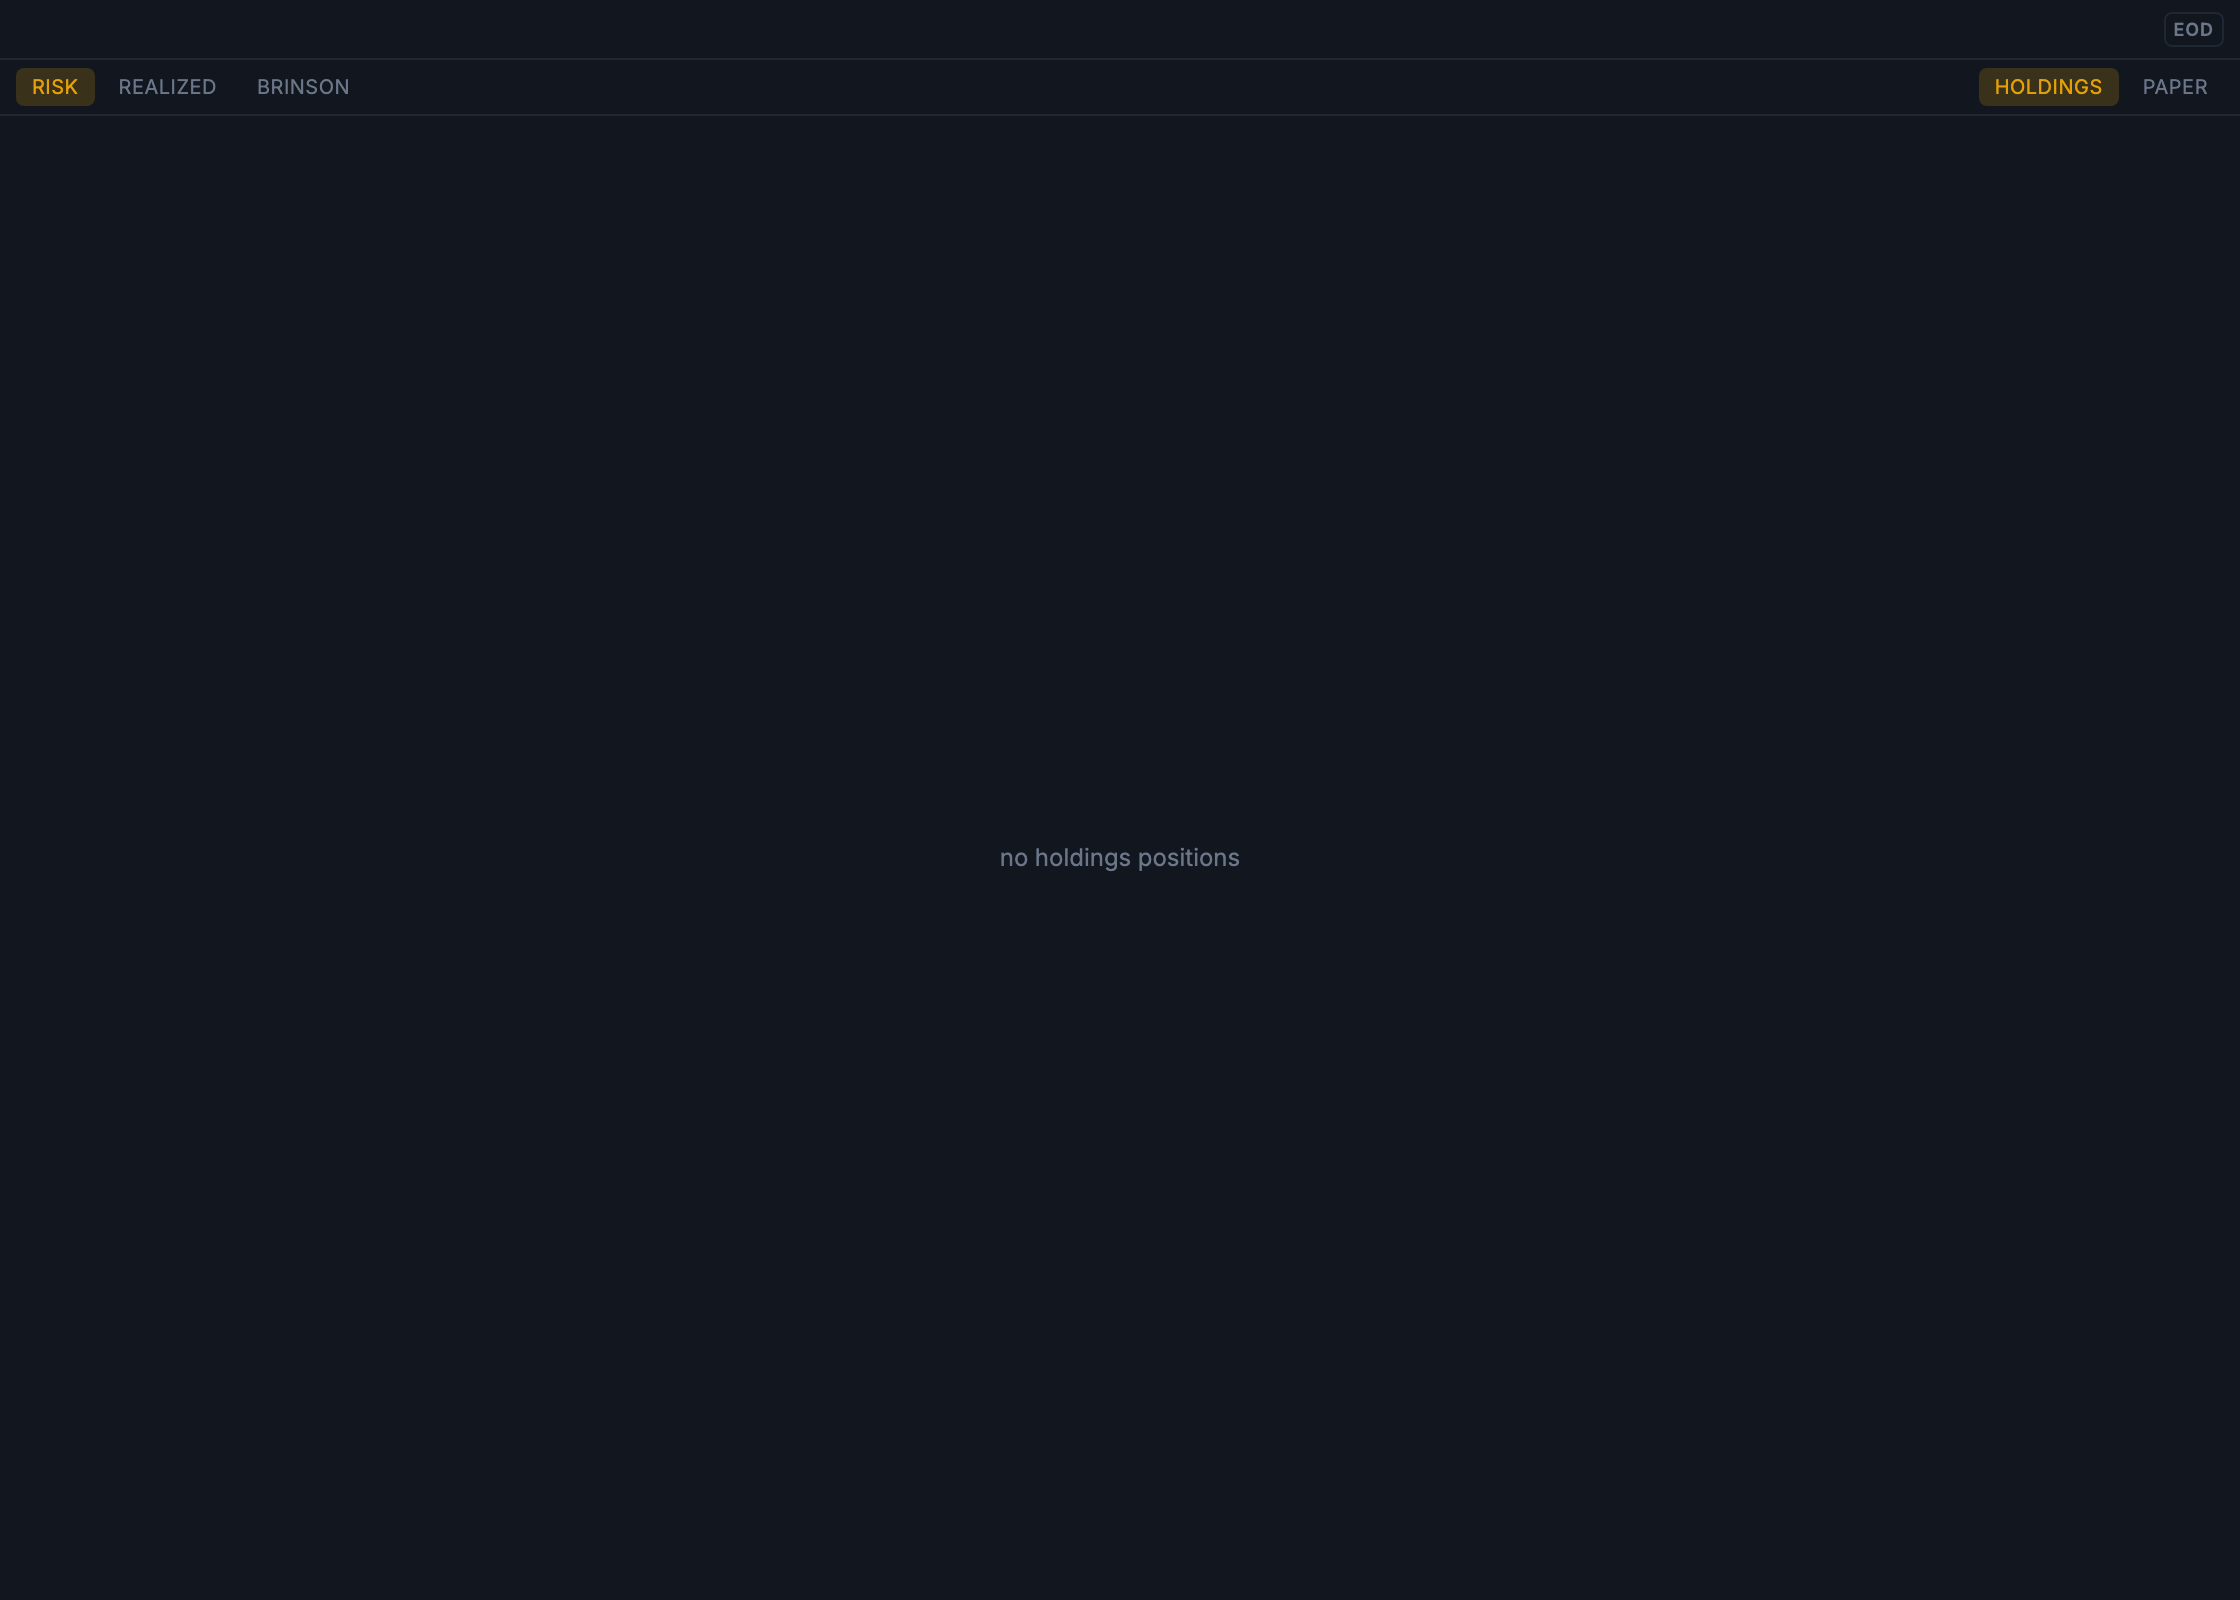
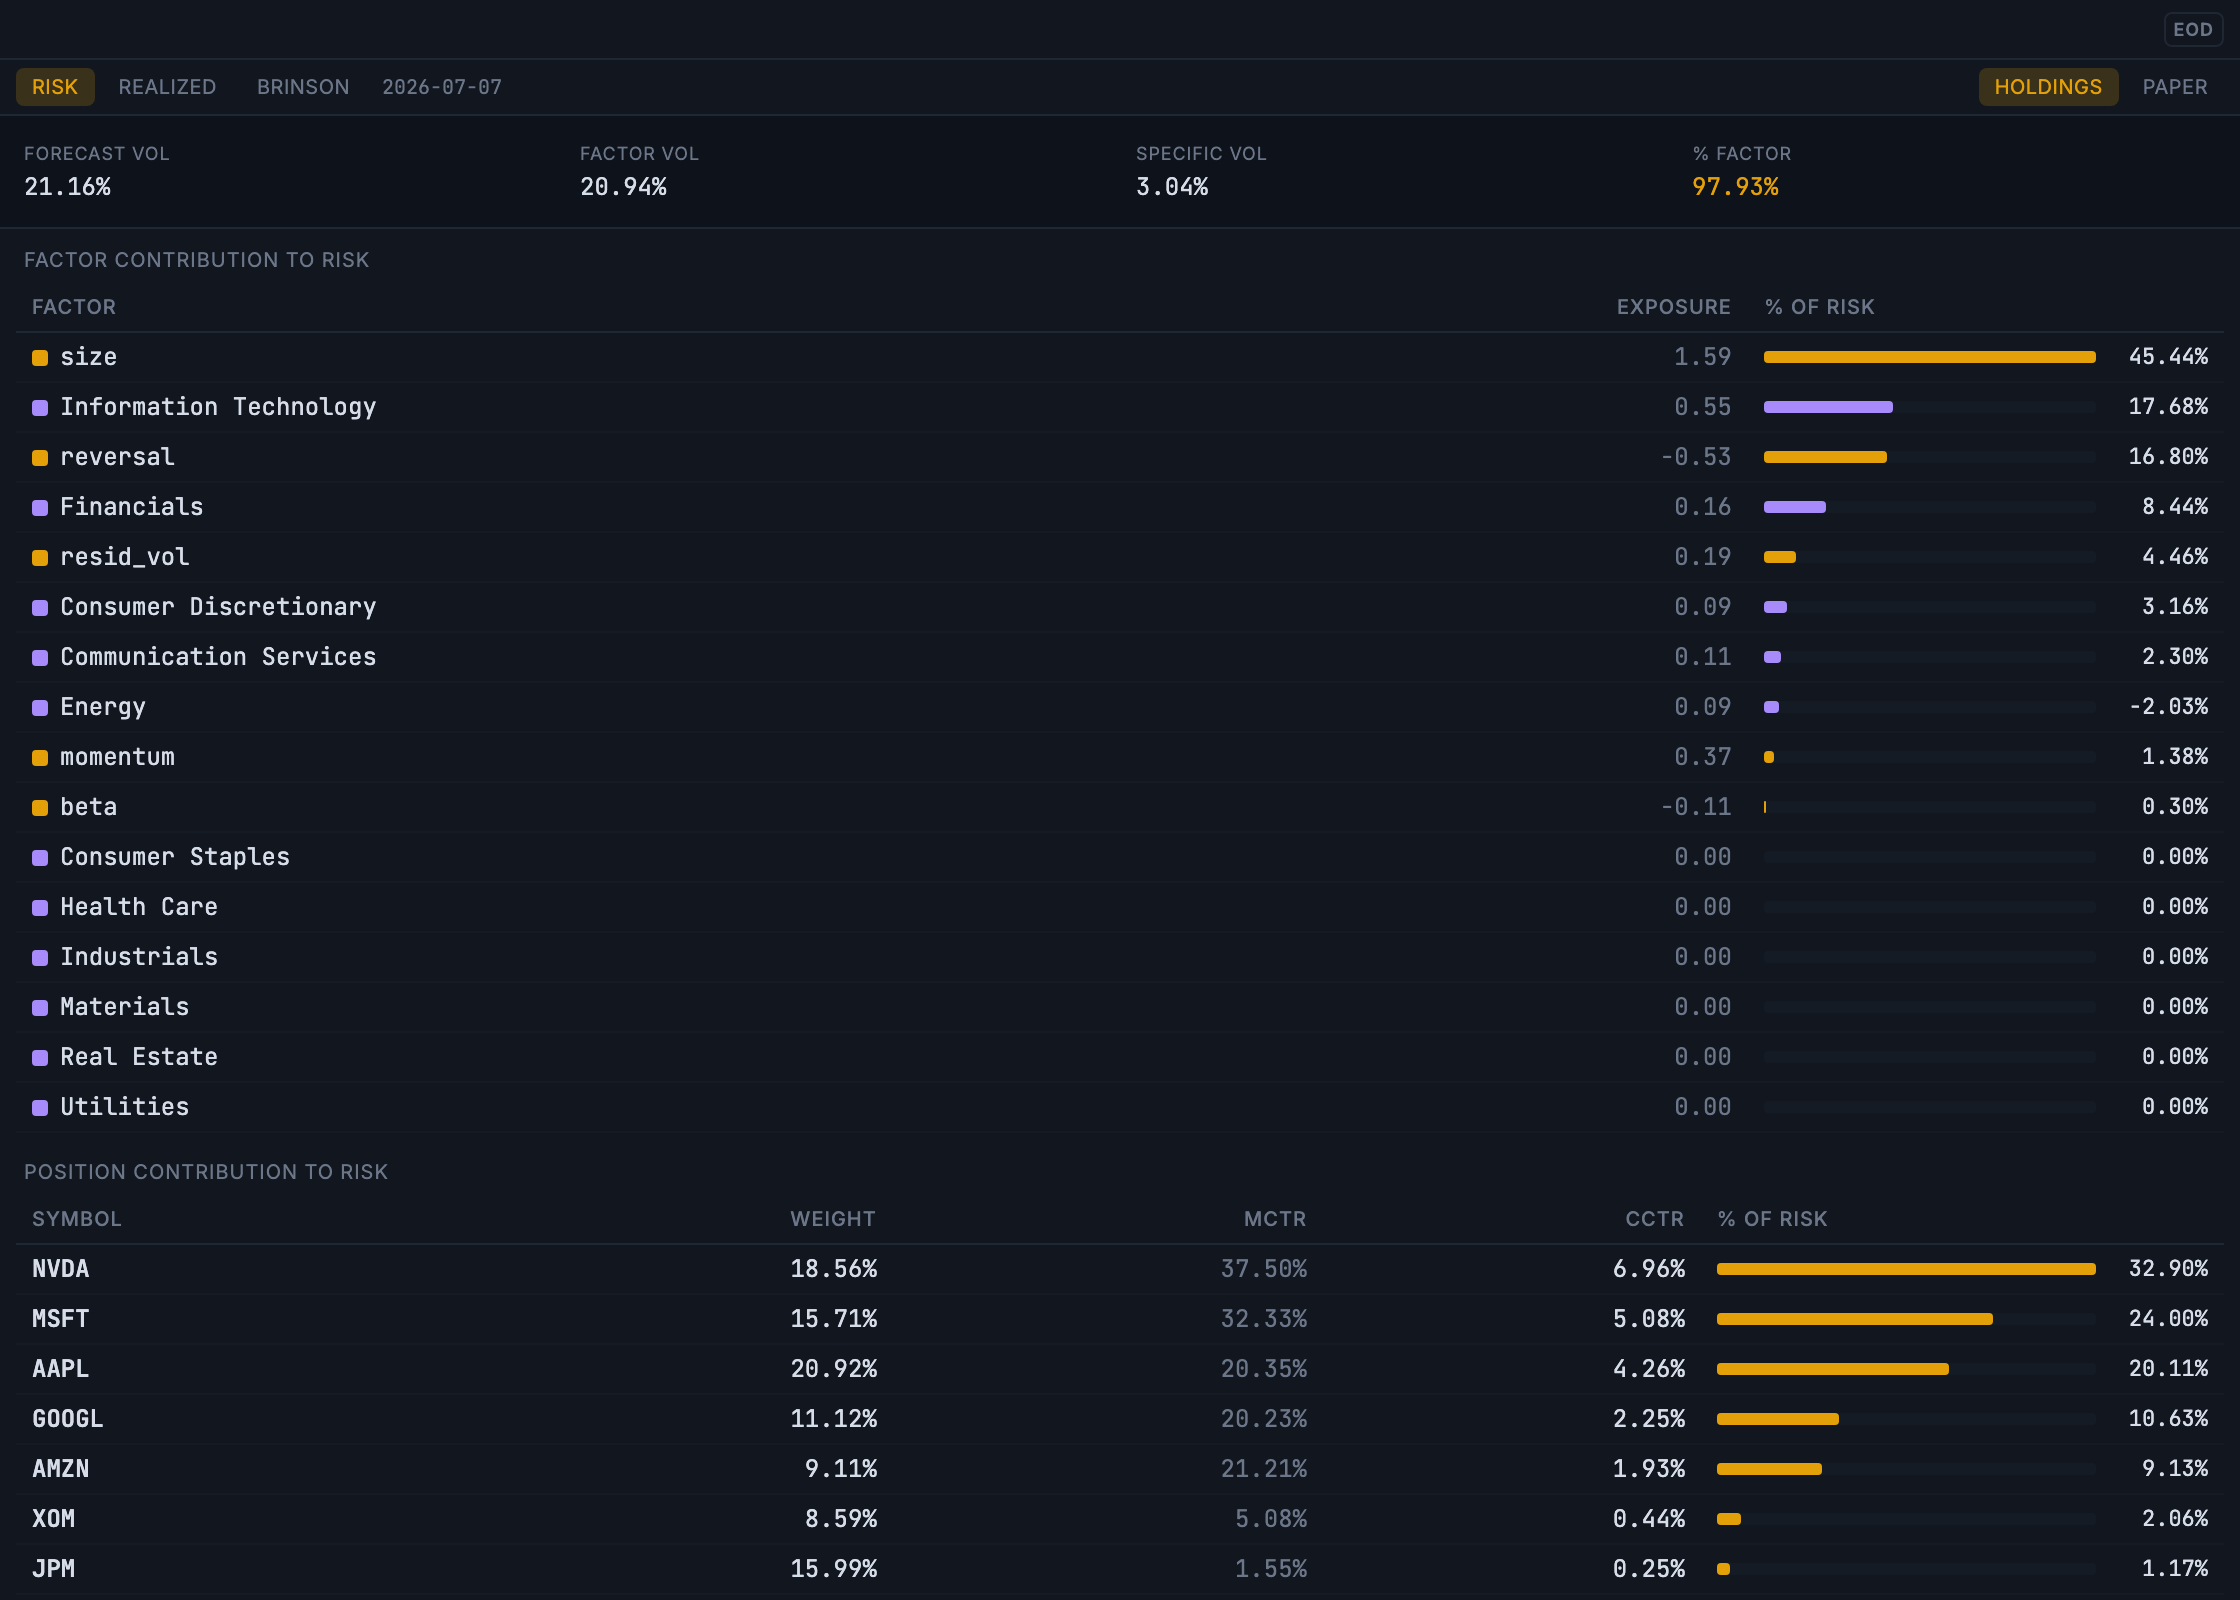
Fix SEC EDGAR 403 in frozen builds; Risk Attribution screenshot now live
The runtime hook's SEC_USER_AGENT lacked a contact email, which EDGAR's
fair-access policy rejects with 403 — every filings fetch in the packaged app
failed while dev runs (code-default UA with an email) worked. Ship a compliant
default UA.

Also replace the Risk Attribution empty-state screenshot with a real Barra
decomposition (the underlying qhfi DataStore.load_panel bug is fixed in the
engine), and update the gallery note — only Time & Sales remains an empty state.

diff --git a/README.md b/README.md
@@ -83,9 +83,9 @@ All 34 modules at a glance — jump to any section below.
 | [Watchlist](#watchlist) · [Market Board](#market-board) · [Quote](#quote) · [Profile](#profile) · [Chart](#chart) · [Chart Studio](#chart-studio) · [Order Book](#order-book) · [Time & Sales](#time--sales) | [Option Chain](#option-chain) · [Options Surface](#options-surface) | [News](#news) · [Topic News](#topic-news) · [Public Filings](#public-filings) · [New Listings](#new-listings) | [Screener](#screener) · [Factors](#factors) · [Factor Performance](#factor-performance) · [Backtest](#backtest) · [Strategies](#strategies) · [Models](#models) · [Sandbox](#sandbox) | [Portfolio](#portfolio) · [Portfolio Builder](#portfolio-builder) · [Risk Attribution](#risk-attribution) | [Paper Trading](#paper-trading) · [Algo Trading](#algo-trading) · [Market Making](#market-making) | [Macro](#macro) · [FICC](#ficc) | [Assistant](#assistant) · [Agent Workflow](#agent-workflow) · [Research Loop](#research-loop) · [Committees](#committees) · [Map](#map) |
 
 > Screenshots below are captured from the running app with live data — real EDGAR filings, FRED
-> macro series, market bars, a sample holdings book and paper positions, and an LLM-built chart.
-> Two exceptions render their **empty state**: Time & Sales (the equity tape needs a live feed —
-> add Alpaca keys) and Risk Attribution (needs positions with factor coverage).
+> macro series, market bars, a sample holdings book and paper positions, a full Barra risk
+> decomposition, and an LLM-built chart. One exception renders its **empty state**: Time & Sales
+> (the equity tape needs a live feed — add Alpaca keys).
 
 ### Market data & charts
 